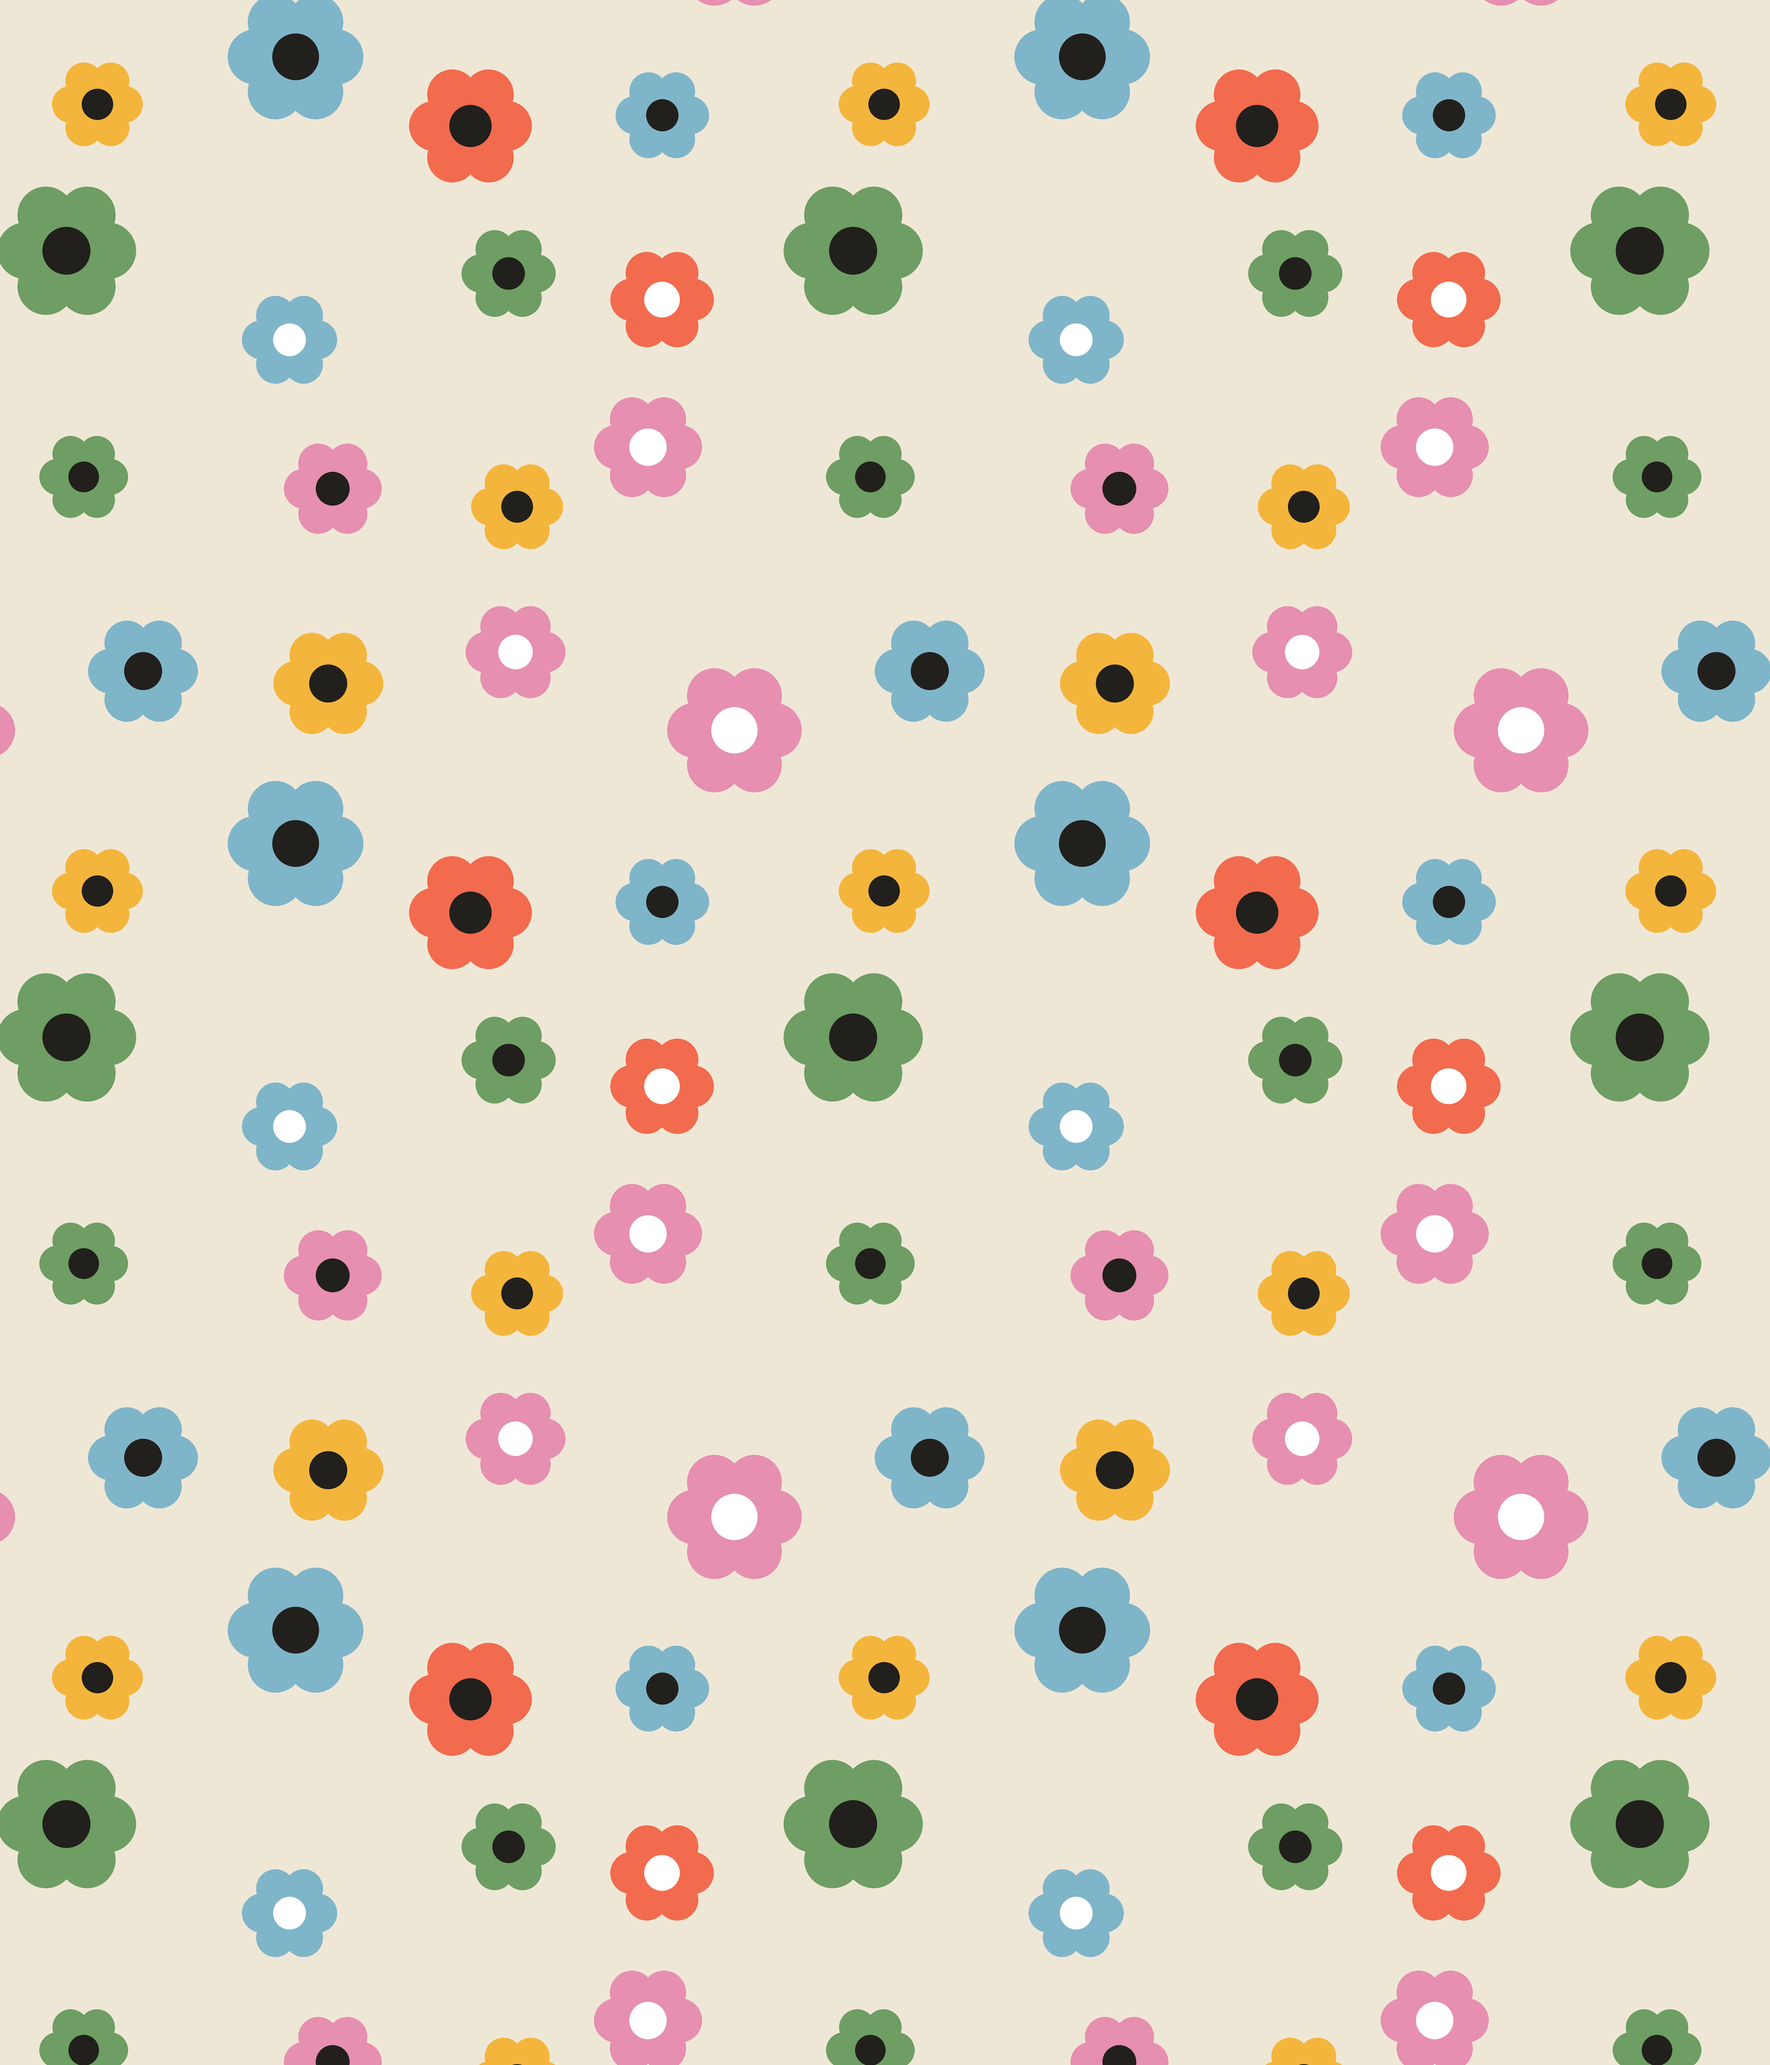
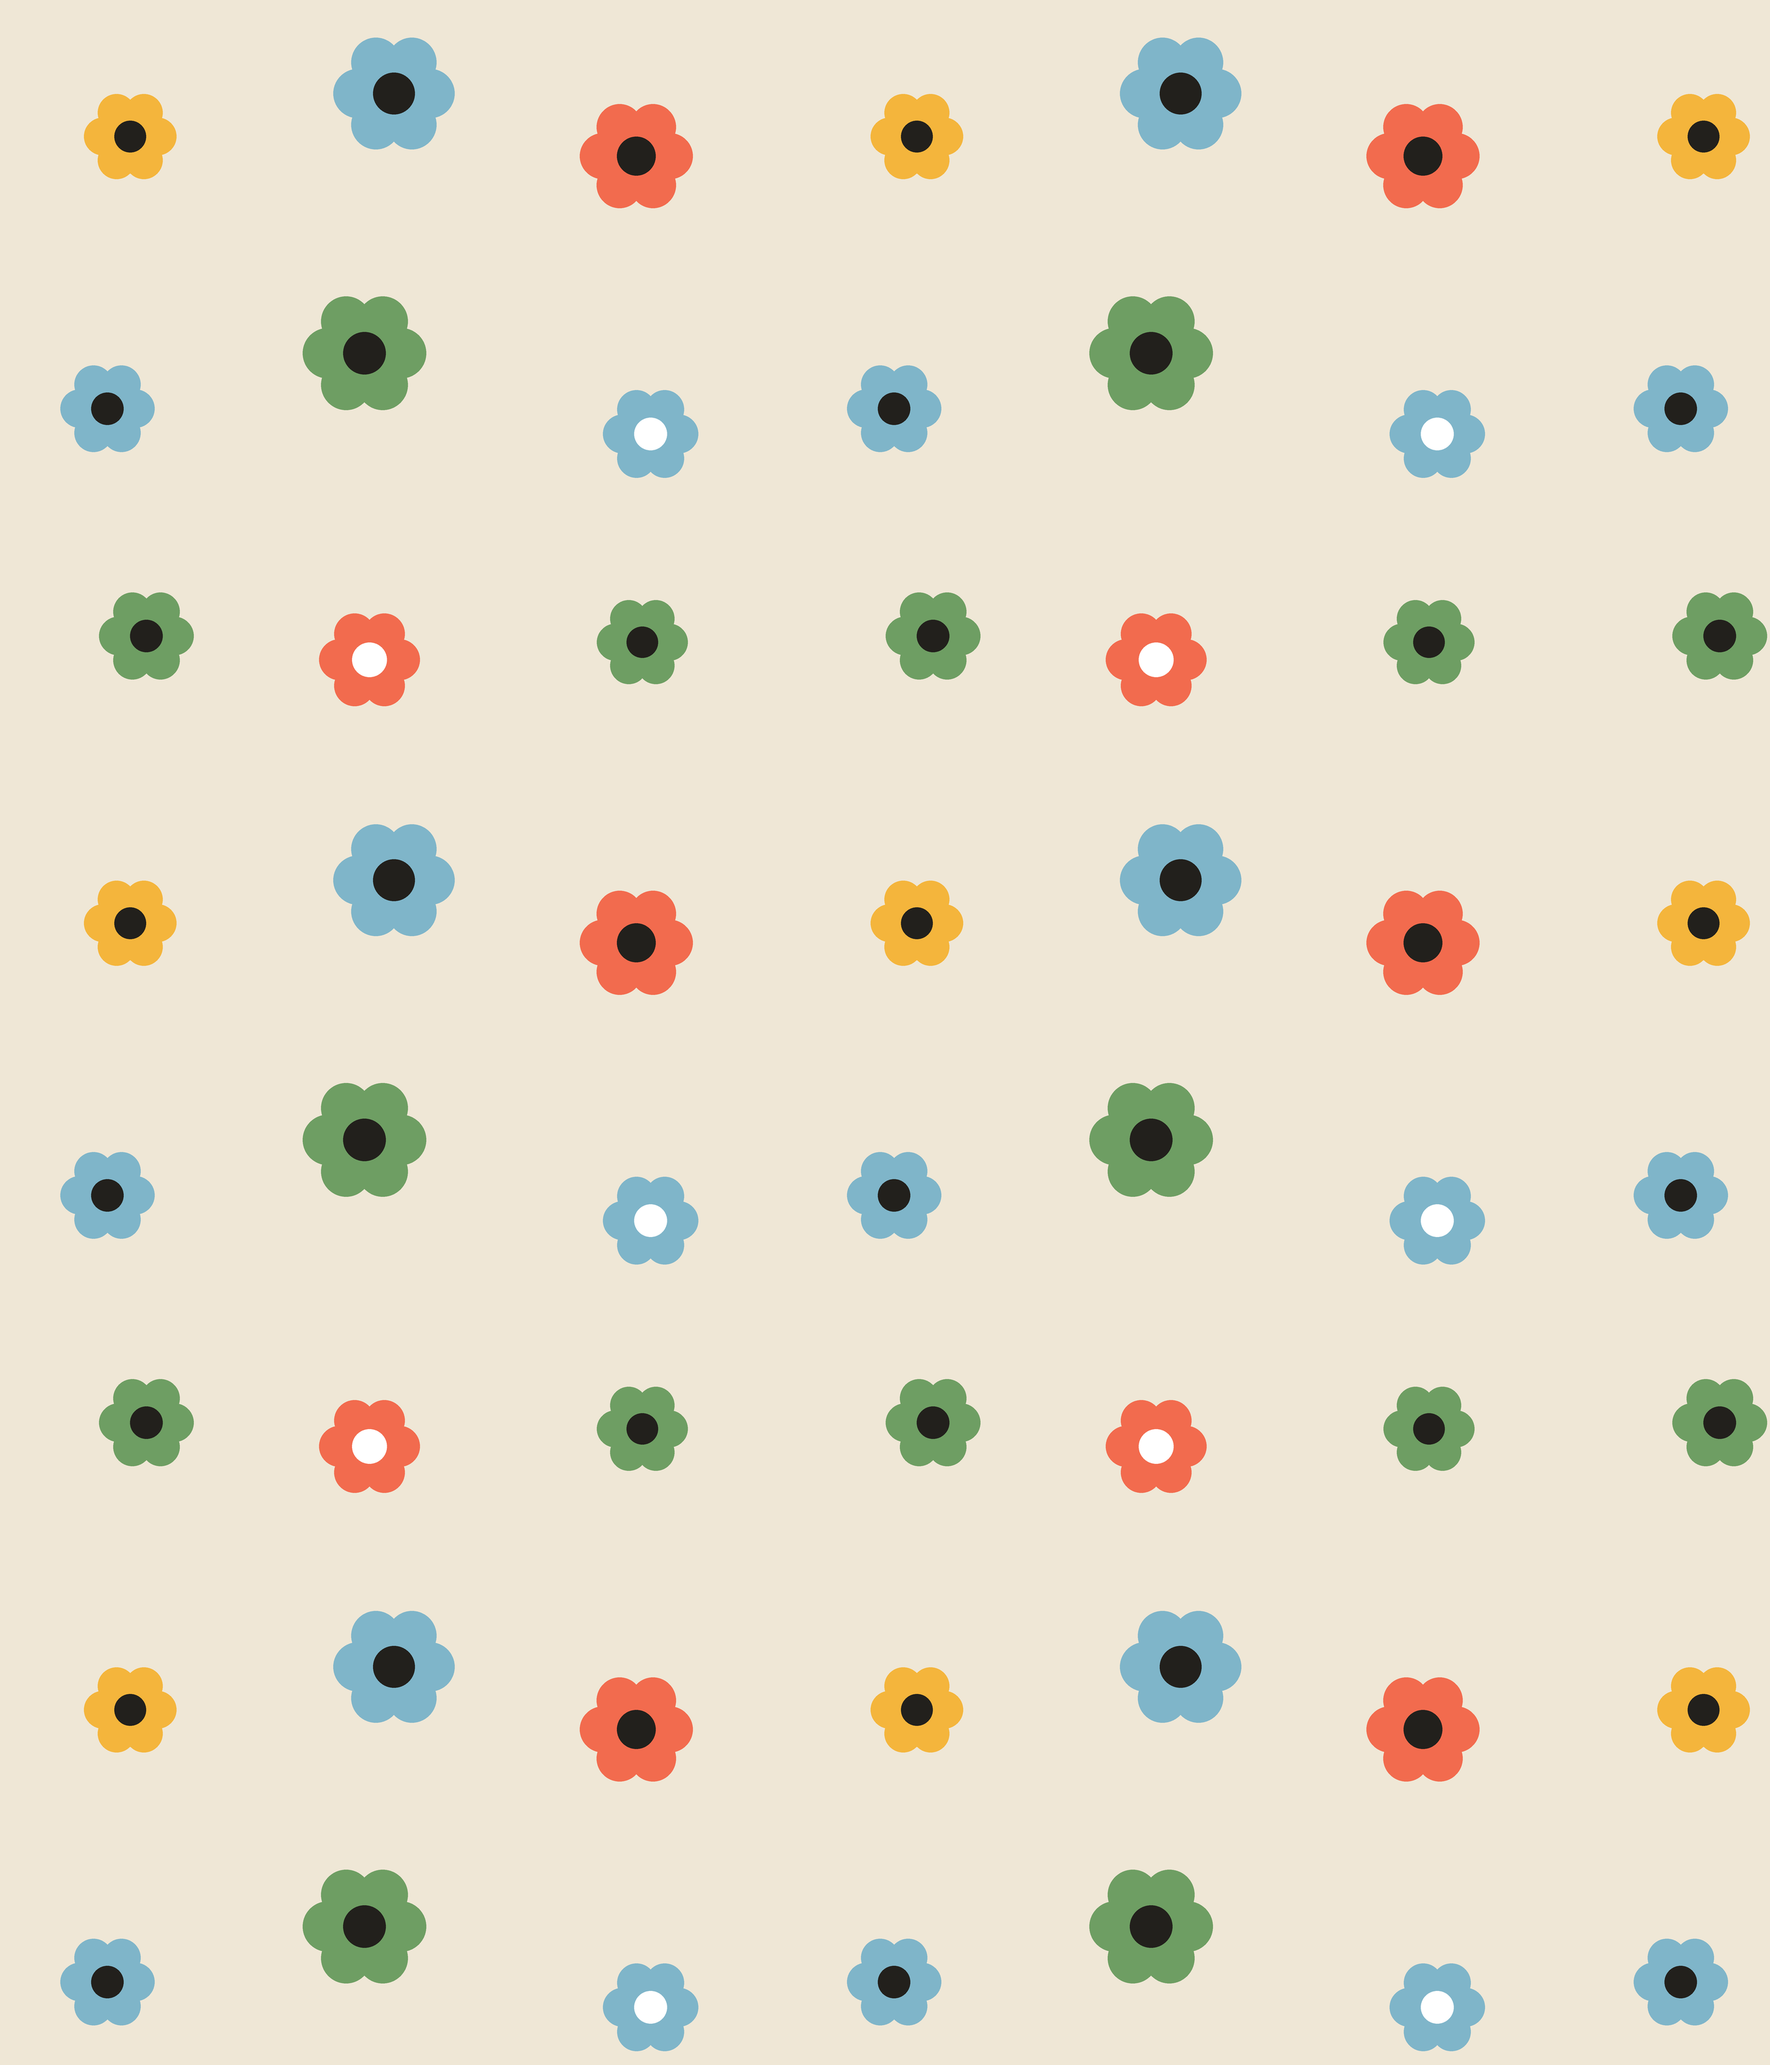
Calmer Modern Flower print: fewer flowers, more negative space (less busy)
Claude-Session: https://claude.ai/code/session_012Ro7nE8w8xabqixMQGwZGk

diff --git a/assets/scripts/modern_flower.py b/assets/scripts/modern_flower.py
@@ -51,13 +51,14 @@ def flower_tile(ground="cream"):
             circle(cx+math.cos(a)*ring, cy+math.sin(a)*ring, pr, pc)
         circle(cx, cy, 22*scale, cc)
 
-    gx, gy = 4, 4
+    # calmer, less busy — fewer flowers, more negative space
+    gx, gy = 3, 3
     cw, ch = n/gx, n/gy
     for j in range(gy):
         for i in range(gx):
-            cx = cw*(i+0.5) + (r()-0.5)*cw*0.5
-            cy = ch*(j+0.5) + (r()-0.5)*ch*0.5
-            flower(cx, cy, (1.0+r()*0.7)*SS, PETALS[int(r()*len(PETALS))], CENTERS[int(r()*len(CENTERS))])
+            cx = cw*(i+0.5) + (r()-0.5)*cw*0.34
+            cy = ch*(j+0.5) + (r()-0.5)*ch*0.34
+            flower(cx, cy, (1.05+r()*0.45)*SS, PETALS[int(r()*len(PETALS))], CENTERS[int(r()*len(CENTERS))])
     return img.resize((TILE, TILE), Image.LANCZOS)
 
 
